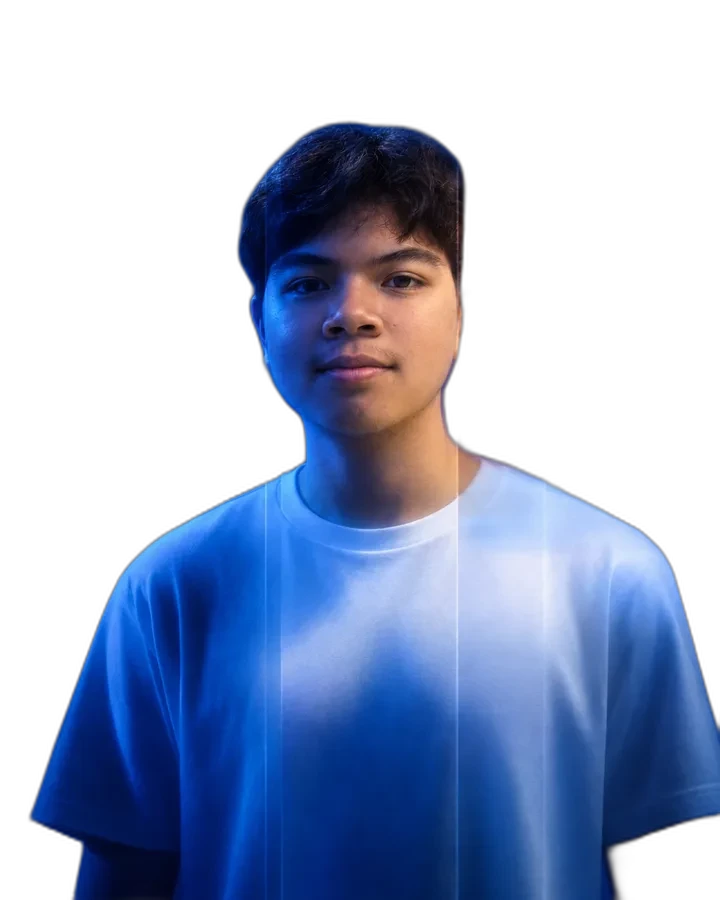
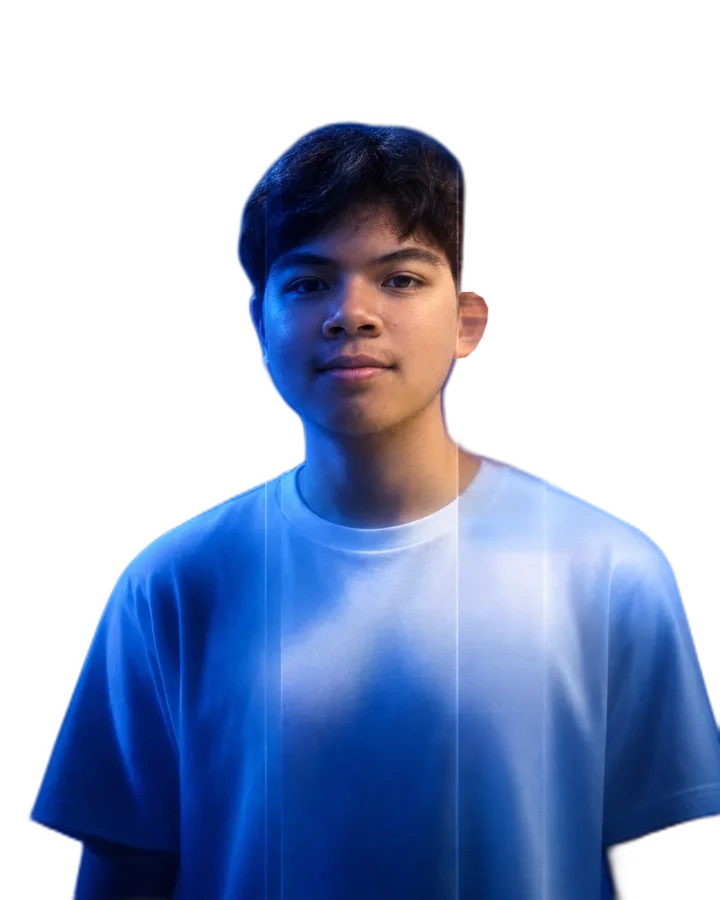
Redesign tutor portraits with grayscale country flags and restore Abhika ear

diff --git a/components/coaching/coaching-tutors.tsx b/components/coaching/coaching-tutors.tsx
@@ -3,16 +3,19 @@
 import Image from "next/image";
 import { useState, type CSSProperties } from "react";
 import { Pause, Play } from "lucide-react";
-import { medallists, medallistStats, medalLabel, type Medallist } from "@/lib/coaching/medallists";
+import { countryFlagCodes, medallists, medallistStats, medalLabel, type Medallist } from "@/lib/coaching/medallists";
+import abhikaPortrait from "@/public/coaching/medallists/abhika-atmaja-cutout.webp";
 
-export function CoachingTutorCard({ tutor, priority = false, eager = false, revealBackground = false, focusable = true }: { tutor: Medallist; priority?: boolean; eager?: boolean; revealBackground?: boolean; focusable?: boolean }) {
+export function CoachingTutorCard({ tutor, priority = false, eager = false, countryBackdrop = false, focusable = true }: { tutor: Medallist; priority?: boolean; eager?: boolean; countryBackdrop?: boolean; focusable?: boolean }) {
   const extension = ["angel", "kanishk", "ermuun-battulga", "reuben-felix"].includes(tutor.slug) ? "png" : "webp";
   const hasPortrait = !["nima", "yota"].includes(tutor.slug);
-  return <article className="coaching-portrait" data-reveal-background={revealBackground || undefined} tabIndex={revealBackground && hasPortrait && focusable ? 0 : undefined}>
-    {hasPortrait ? <>
-      <Image src={`/coaching/medallists/${tutor.slug}.${extension}`} alt={`${tutor.name}, physics tutor from ${tutor.country}`} width={720} height={900} sizes="(min-width: 640px) 288px, 256px" priority={priority} loading={priority ? undefined : eager ? "eager" : "lazy"} className={revealBackground ? "coaching-portrait-image coaching-portrait-scene" : "coaching-portrait-image"} />
-      {revealBackground && <Image src={`/coaching/medallists/${tutor.slug}-cutout.webp`} alt="" aria-hidden="true" width={720} height={900} sizes="(min-width: 640px) 288px, 256px" loading="lazy" className="coaching-portrait-image coaching-portrait-cutout" />}
-    </> : <div className="coaching-portrait-image flex items-center justify-center font-serif text-7xl" aria-hidden="true">{tutor.name.charAt(0)}</div>}
+  const flagCode = countryFlagCodes[tutor.country];
+  const cutout = tutor.slug === "abhika-atmaja" ? abhikaPortrait : `/coaching/medallists/${tutor.slug}-cutout.webp`;
+  return <article className="coaching-portrait" data-country-backdrop={countryBackdrop || undefined} tabIndex={countryBackdrop && focusable ? 0 : undefined}>
+    <div className={countryBackdrop ? "coaching-portrait-artwork" : undefined}>
+      {countryBackdrop && flagCode && <Image src={`/coaching/flags/${flagCode}.png`} alt="" aria-hidden="true" fill sizes="(min-width: 640px) 288px, 256px" className="coaching-country-flag" />}
+      {hasPortrait ? <Image src={countryBackdrop ? cutout : `/coaching/medallists/${tutor.slug}.${extension}`} alt={`${tutor.name}, physics tutor from ${tutor.country}`} width={720} height={900} sizes="(min-width: 640px) 288px, 256px" priority={priority} loading={priority ? undefined : eager ? "eager" : "lazy"} className="coaching-portrait-image" /> : <div className="coaching-portrait-image flex items-center justify-center font-serif text-7xl" aria-hidden="true">{tutor.name.charAt(0)}</div>}
+    </div>
     <div className="coaching-portrait-copy">
       <p className="text-sm uppercase tracking-widest opacity-80">{tutor.country}</p>
       <h3 className="font-serif text-lg uppercase leading-tight text-balance sm:text-xl">{tutor.name}</h3>
@@ -41,10 +44,7 @@ export function CoachingTutors() {
   return <section id="tutors" className="py-20">
     <div className="coaching-container flex min-w-0 flex-col gap-8">
       <div className="flex w-full max-w-2xl flex-col items-center gap-4 self-center text-center">
-        <div className="coaching-tutor-heading">
-          <Image src="/coaching/gold-laurel.png" alt="" aria-hidden="true" fill sizes="(min-width: 640px) 512px, 90vw" className="coaching-laurel" />
-          <h2 className="relative max-w-[70%] text-balance text-2xl font-bold tracking-tight sm:text-4xl">Meet Our Tutors</h2>
-        </div>
+        <h2 className="text-balance text-3xl font-bold tracking-tight sm:text-4xl">Meet Our Tutors</h2>
         <p className="max-w-xl leading-relaxed text-muted-foreground">Every tutor has medalled at national, Asian, or international level. We match each student to the tutor whose strengths fit their syllabus and goals.</p>
         <dl className="flex flex-wrap justify-center gap-10">
           <div><dt className="text-sm text-muted-foreground">Tutors</dt><dd className="text-2xl font-semibold">{medallistStats.count}</dd></div>
@@ -58,7 +58,7 @@ export function CoachingTutors() {
       <div id="coaching-tutor-gallery" className="coaching-gallery-viewport" data-paused={paused} role="region" aria-label="Tutor slideshow; hover or focus to pause" tabIndex={0} onBlur={(event) => { if (!event.currentTarget.contains(event.relatedTarget)) event.currentTarget.scrollLeft = 0; }}>
         <div className="coaching-gallery-track">
           {[0, 1].map((copy) => <ul key={copy} className="coaching-gallery" aria-label={copy === 0 ? "Physcratic tutors" : undefined} aria-hidden={copy === 1 ? true : undefined}>
-            {medallists.map((tutor) => <li key={tutor.slug}><CoachingTutorCard tutor={tutor} revealBackground focusable={copy === 0} /></li>)}
+            {medallists.map((tutor) => <li key={tutor.slug}><CoachingTutorCard tutor={tutor} countryBackdrop focusable={copy === 0} /></li>)}
           </ul>)}
         </div>
       </div>

diff --git a/app/coaching/coaching.module.css b/app/coaching/coaching.module.css
@@ -33,16 +33,19 @@
 .page :global([data-paused="true"] .coaching-marquee-column) { animation-play-state: paused; }
 .page :global(.coaching-portrait) { position: relative; overflow: hidden; border-radius: 0; background: hsl(var(--primary)); color: hsl(var(--primary-foreground)); }
 .page :global(.coaching-portrait-image) { display: block; width: 100%; height: auto; aspect-ratio: 4 / 5; border-radius: 0; object-fit: cover; }
-.page :global(.coaching-portrait[data-reveal-background]) { background: hsl(var(--background)); }
-.page :global(.coaching-portrait-scene) { opacity: 0; transition: opacity .3s ease; }
-.page :global(.coaching-portrait-cutout) { position: absolute; inset: 0; height: 100%; transition: opacity .3s ease; }
-.page :global(.coaching-portrait[data-reveal-background]:hover .coaching-portrait-scene), .page :global(.coaching-portrait[data-reveal-background]:focus .coaching-portrait-scene) { opacity: 1; }
-.page :global(.coaching-portrait[data-reveal-background]:hover .coaching-portrait-cutout), .page :global(.coaching-portrait[data-reveal-background]:focus .coaching-portrait-cutout) { opacity: 0; }
+.page :global(.coaching-portrait[data-country-backdrop]) { background: hsl(var(--muted)); }
+.page :global(.coaching-portrait-artwork) { position: relative; isolation: isolate; background: hsl(var(--muted)); filter: grayscale(1); transition: filter .35s ease; }
+.page :global(.coaching-country-flag) { object-fit: contain; object-position: center top; opacity: .65; transition: opacity .35s ease; }
+.page :global(.coaching-portrait-artwork .coaching-portrait-image) { position: relative; z-index: 1; }
+.page :global(.coaching-portrait[data-country-backdrop]:hover .coaching-portrait-artwork), .page :global(.coaching-portrait[data-country-backdrop]:focus-visible .coaching-portrait-artwork) { filter: grayscale(0); }
+.page :global(.coaching-portrait[data-country-backdrop]:hover .coaching-country-flag), .page :global(.coaching-portrait[data-country-backdrop]:focus-visible .coaching-country-flag) { opacity: 1; }
 .page :global(.coaching-portrait-copy) { position: absolute; inset: auto 0 0; display: flex; flex-direction: column; align-items: center; gap: .375rem; padding: 5rem 1rem 1rem; background: linear-gradient(transparent, hsl(var(--background) / .88)); color: hsl(var(--foreground)); text-align: center; }
 .page :global(.coaching-portrait-copy p) { overflow-wrap: anywhere; }
-.page :global(.coaching-tutor-heading) { position: relative; display: flex; width: 100%; max-width: 32rem; aspect-ratio: 2 / 1; align-items: center; justify-content: center; padding-bottom: 1.5rem; }
-.page :global(.coaching-laurel) { object-fit: contain; pointer-events: none; }
-.page :global(.coaching-gallery-viewport) { min-width: 0; overflow: hidden; }
+.page :global(.coaching-gallery-viewport) { min-width: 0; overflow: hidden; scrollbar-width: thin; scrollbar-color: hsl(var(--muted-foreground) / .5) transparent; }
+.page :global(.coaching-gallery-viewport::-webkit-scrollbar) { height: 4px; }
+.page :global(.coaching-gallery-viewport::-webkit-scrollbar-track) { background: transparent; }
+.page :global(.coaching-gallery-viewport::-webkit-scrollbar-thumb) { border-radius: 999px; background: hsl(var(--muted-foreground) / .5); }
+.page :global(.coaching-gallery-viewport::-webkit-scrollbar-button) { display: none; width: 0; height: 0; }
 .page :global(.coaching-gallery-track) { display: flex; width: max-content; animation: coaching-gallery 160s linear infinite; }
 .page :global(.coaching-gallery) { display: flex; flex-shrink: 0; gap: 1rem; padding-inline-end: 1rem; }
 .page :global(.coaching-gallery > li) { width: 16rem; flex-shrink: 0; }
@@ -64,4 +67,4 @@
 @media (min-width: 640px) { .page :global(.coaching-container) { padding-inline: 2rem; } .page :global(.coaching-marquee) { height: 34rem; } .page :global(.coaching-gallery > li) { width: 18rem; } }
 @media (min-width: 768px) { .page :global(.coaching-mobile-cta) { display: none; } }
 @media (min-width: 1024px) { .page :global(.coaching-hero) { grid-template-columns: minmax(0, 1fr) minmax(0, 1fr); gap: 3.5rem; padding-block: 4rem; } .page :global(.coaching-marquee) { height: 44rem; gap: 1rem; } .page :global(.coaching-hero-slideshow) { margin-top: -2rem; } }
-@media (prefers-reduced-motion: reduce) { .page :global(.coaching-rise), .page :global(.coaching-gallery-track) { animation: none; } .page :global(.coaching-gallery-viewport) { overflow-x: auto; } .page :global(.coaching-gallery[aria-hidden="true"]), .page :global(.coaching-gallery-toggle) { display: none; } .page :global(.coaching-portrait-scene), .page :global(.coaching-portrait-cutout) { transition: none; } }
+@media (prefers-reduced-motion: reduce) { .page :global(.coaching-rise), .page :global(.coaching-gallery-track) { animation: none; } .page :global(.coaching-gallery-viewport) { overflow-x: auto; } .page :global(.coaching-gallery[aria-hidden="true"]), .page :global(.coaching-gallery-toggle) { display: none; } .page :global(.coaching-portrait-artwork), .page :global(.coaching-country-flag) { transition: none; } }

diff --git a/lib/coaching/medallists.ts b/lib/coaching/medallists.ts
@@ -20,6 +20,19 @@ export const medalLabel: Record<Medal, string> = {
   hm: 'Honorable Mention',
 }
 
+export const countryFlagCodes: Record<string, string> = {
+  India: 'in',
+  Indonesia: 'id',
+  Mongolia: 'mn',
+  Philippines: 'ph',
+  Iran: 'ir',
+  Peru: 'pe',
+  Japan: 'jp',
+  Kyrgyzstan: 'kg',
+  Pakistan: 'pk',
+  'Costa Rica': 'cr',
+}
+
 // Tutor achievement records. Photos live in public/medallists/<slug>.webp.
 // Placeholder portraits are used until the remaining tutor photos are added.
 export const medallists: Medallist[] = [
